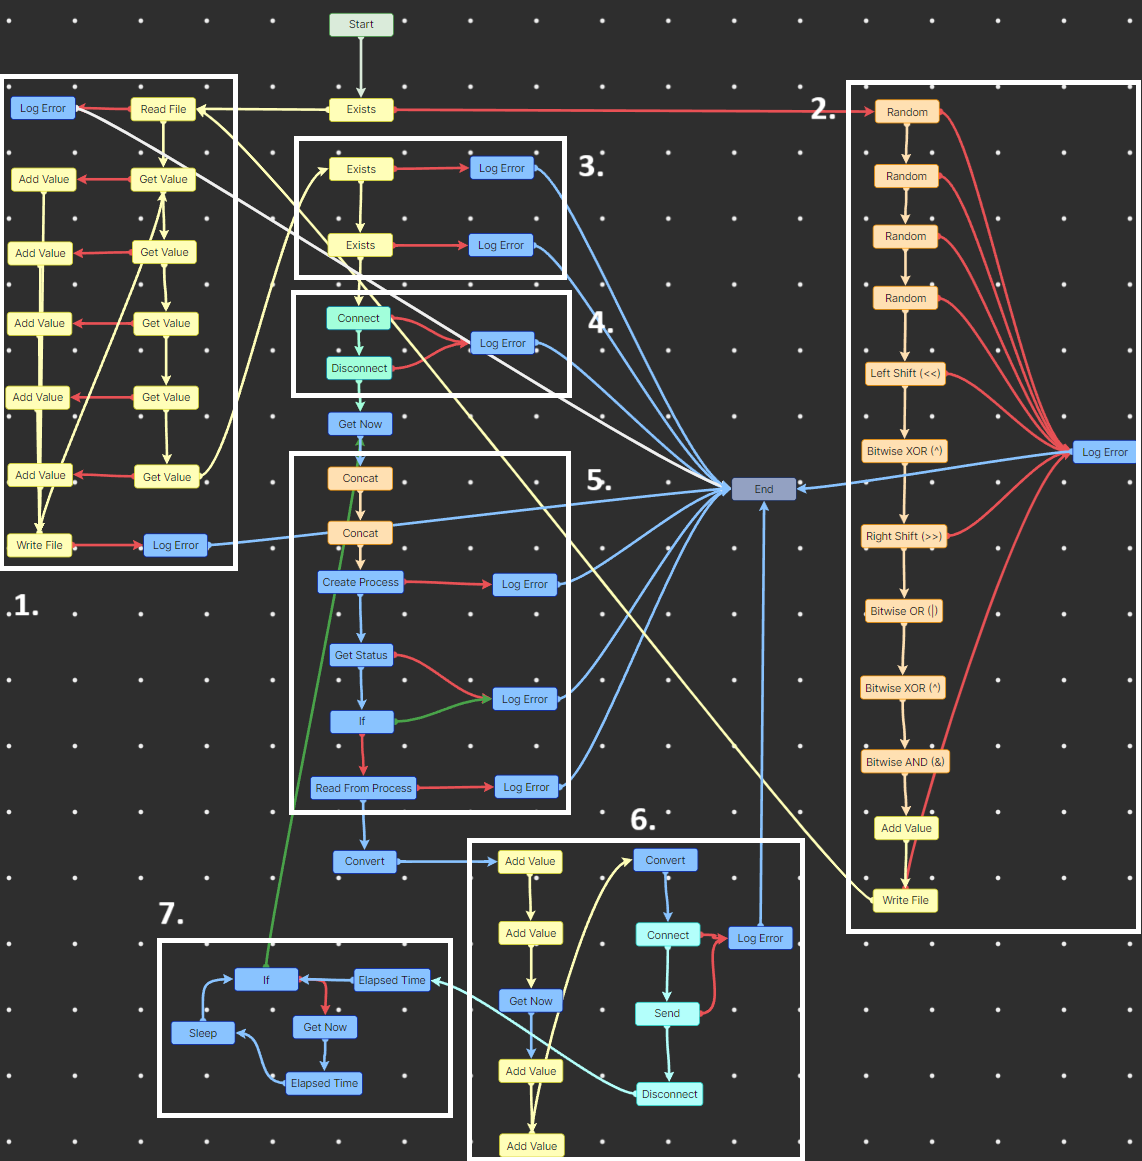
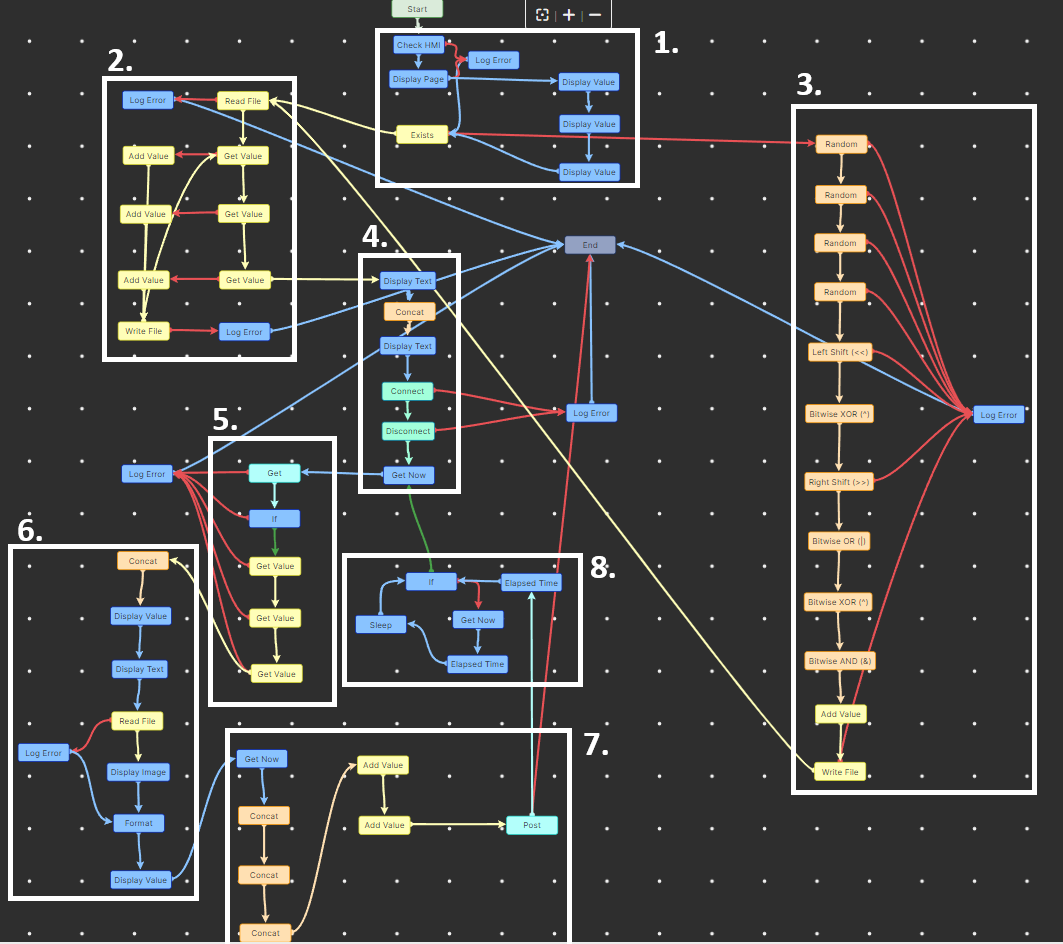
Update README of camara-niop with new GUI changes.

Changed region(s): [[0.0, 0.0, 1.0, 1.0], [0.6209, 0.2765, 0.683, 0.3072]]

diff --git a/camara-niop/README.md b/camara-niop/README.md
@@ -13,7 +13,7 @@ O projeto aqui feito em NIOP serve principalmente para receber essas informaçõ
 
 ## Instalação
 
-Devido ao facto de o projeto ter sido desenvolvido utilizando a plataforma NIOP, é somente necessário fazer o download do projeto e abrir o mesmo na plataforma NIOP. Para tal, é necessário ter o NIOP studio instalado no seu sistema e ter um conhecimento básico de como utilizar a plataforma NIOP.
+Devido ao facto de o projeto ter sido desenvolvido utilizando a plataforma NIOP, é somente necessário fazer o download do projeto e abrir o mesmo na plataforma NIOP. Para tal, é necessário ter o NIOP studio instalado no seu sistema e ter um conhecimento básico de como utilizar a plataforma NIOP. Tanto como o NIOP studio, é necessário ter o NIOP HMI instalado no seu sistema. O NIOP HMI é a plataforma que permite executar as GUI criadas na plataforma NIOP.
 
 Como a plataforma NIOP funciona de forma cliente-servidor para executar o projeto, é necessário ter o servidor NIOP a correr para poder executar o projeto. Para tal, é necessário iniciar o servidor NIOP (niop Engine) e depois abrir o projeto na plataforma NIOP. Assim, ao executar o seguinte comando no terminal, o servidor NIOP irá iniciar:
 ```bash
@@ -26,26 +26,45 @@ Após o servidor NIOP estar a correr, é possível abrir o projeto na plataforma
 Como o projeto foi concebido para ser "standalone", somente é necessário configurar algumas variáveis num ficheiro de configuração. Para tal, é necessário abrir o ficheiro `info.json` e configurar as variáveis de acordo com o seu sistema. As variáveis que devem ser configuradas são as seguintes:
 ```json
 {
-    "comando": "main.exe",
-    "identificador": 1882545984,
-    "modelo": "yolov5su.pt",
-    "server_ip": "localhost:8765",
+    "identificador": 5,
+    "server_ip": "https://backend.dnigamer.xyz",
     "tempo_captura": 10
 }
 ```
-- `comando`: O comando que irá ser executado para capturar a imagem. O valor padrão é `main.exe`, que é o executável do projeto camara-py. Se o executável estiver em outro local, deve especificar o caminho completo para o executável.
-- `identificador`: O identificador da câmera. O valor padrão é um número gerado aleatoriamente. Este número é utilizado para identificar a câmera na aplicação. Se o número não for único, o projeto terá problemas na backend que processa as contabilizações de passageiros.
-- `modelo`: O modelo que irá ser utilizado para a deteção de pessoas. O valor padrão é `yolov5su.pt`, que é o modelo pré-treinado. Se quiser utilizar outro modelo, deve especificar o caminho para o arquivo de pesos correspondente. Para além de especificar o modelo, deve também ter o modelo na mesma pasta que o executável do projeto camara-py. Para tal, é necessário fazer o download do modelo YOLOv5 em [https://github.com/ultralytics/yolov5/releases](https://github.com/ultralytics/yolov5/releases).
-- `server_ip`: O endereço IP do servidor que irá receber as informações. O valor padrão é `localhost:8765`, que é o endereço IP da backend que recebe as informações. Se o servidor estiver em outro local, deve especificar o endereço IP correto.
+As variáveis que devem ser configuradas são as seguintes:
+- `identificador`: O identificador da câmera. O valor padrão é um número gerado aleatoriamente. Este número é utilizado para identificar a câmera na aplicação. Se o número não for único em relação a uma outra câmara no sistema, o projeto terá problemas na backend que processa as contabilizações de passageiros.
+- `server_ip`: O endereço IP do servidor que irá receber as informações. Este endereço IP deve ser o endereço do servidor de backend que irá receber as informações enviadas pela aplicação, como dados de lotação de paragens, entre outros. O valor padrão é `https://backend.dnigamer.xyz`, e deve ser alterado para o endereço do seu servidor. 
 - `tempo_captura`: O período de tempo em segundos que a câmera irá capturar a imagem. Este número significa quanto em quanto tempo a câmera irá capturar uma nova imagem. O valor padrão é 10 segundos, mas pode ser alterado para o valor que quiser. O valor mínimo é 1 segundo.
+
+**NOTA:** O endereço IP (`server_ip`) deve ser o endereço do servidor que está a correr o backend `server-py`, um servidor RESTful que recebe as informações enviadas pela aplicação.
+
+### GUI integrado do camara-niop
+Como nova versão do projeto, foi adicionado uma GUI integrada no projeto camara-niop. Esta GUI permite ao utilizador ver o estado da captura, a imagem capturada e o número de pessoas detetadas na imagem. A GUI é atualizada em tempo real e permite ao utilizador ver o estado da captura e o número de pessoas detetadas na imagem.
+
+![camara-niop](assets/gui-camara.png)
+
+#### Como analizar a GUI
+A GUI é dividida em várias secções, a da imagem capturada, a das informações da captura e estado da captura. 
+
+A secção da imagem capturada mostra a imagem capturada pela câmera, a secção das informações da captura mostra o número de pessoas detetadas na imagem, tal como o ID da câmera e a data e hora da última captura. 
+
+A secção do estado da captura mostra o tempo que demorou a capturar a imagem e o intervalo de tempo entre capturas.
 
 ## Explicação do projeto
 
-Devido ao facto que o projeto é "low-code/no-code", não é possível explicar o projeto a partir de linhas de código. Assim, o projeto é dividido em várias partes que são explicadas de seguida:
+Devido ao facto que o projeto é "low-code/no-code", não é possível explicar o projeto a partir de linhas de código.
+
+Assim, o projeto é dividido em várias partes que são explicadas de seguida:
 ![camara-niop](assets/projeto.png)
 
 ### Legenda
-#### 1. Obtenção de configurações
+#### 1. Verificações iniciais
+
+Nesta secção do programa, o algoritmo irá verificar se existe tanto o ficheiro `info.json` como o HMI para poder mostrar a GUI do programa. Se não existir o ficheiro `info.json`, o algoritmo irá automaticamente criar o ficheiro com os valores padrão. 
+
+Se não existir o HMI, o algoritmo irá continuar a execução do programa sem mostrar a GUI, mas irá continuar a funcionar em background.
+
+#### 2. Criação de variáveis e do ficheiro info.json
 
 Neste passo, o projeto irá obter as configurações do ficheiro `info.json` e irá guardar as variáveis em variáveis que serão utilizadas no projeto. 
 
@@ -53,41 +72,50 @@ Se o ficheiro `info.json` não existir ou não estiver configurado corretamente,
 
 Como forma de prevenir erros, a aplicação irá automaticamente introduzir alguns valores padrão caso o ficheiro `info.json` esteja vazio.
 
-#### 2. Geração de identificador da câmera único
+#### 3. Geração de identificador da câmera único
 
-Esta secção do projeto realiza algumas operações bitwise para gerar um identificador único para a câmera. O identificador é gerado a partir de 4 números aleatórios, que em seguida sofrem operações bitwise para gerar um número único. Este número é utilizado para identificar a câmera na base de dados como sendo única.
+Esta secção do projeto realiza algumas operações bitwise para gerar um identificador único para a câmera. O identificador é gerado a partir de 4 números aleatórios, que em seguida sofrem operações bitwise para gerar um número único.
 
-#### 3. Verificação de se o modelo e o executável existem
-
-Este passo do projeto verifica se o modelo e o executável existem. Se não existirem, o projeto irá falhar e não irá funcionar. Assim, é necessário ter o modelo e o executável na mesma pasta que o projeto para que o projeto funcione.
+Este número é utilizado para identificar a câmera na base de dados como sendo única.
 
 #### 4. Verificação de se existe uma câmera disponível
 
-Esta secção do projeto verifica se existe uma câmera disponível ao conectar-se a uma qualquer primeira câmera disponível. Se não existir nenhuma câmera disponível, o projeto irá falhar e não irá funcionar.
+Esta secção do projeto verifica se existe uma câmera disponível ao conectar-se a uma qualquer primeira câmera disponível.
 
-#### 5. Execução do comando para capturar e processar a imagem (camara-py)
+Esta parte do projeto serve primariamente para garantir que o resto do projeto funciona corretamente, uma vez que o projeto camara-py irá utilizar a câmera para capturar a imagem e processar a mesma.
 
-Dependendo do comando que foi configurado no ficheiro `info.json`, o projeto irá executar o comando para capturar a imagem. Para além desse comando configurado, o projeto irá também concatenar o modelo configurado no mesmo ficheiro ficando algo como `main.exe -m yolov5su.pt`. Assim, o projeto irá executar o comando para capturar a imagem e processar a imagem utilizando o modelo configurado. 
+Se não existir nenhuma câmera disponível, o projeto irá falhar e não irá funcionar. Assim, é necessário ter uma câmera (webcam por USB por exemplo) disponível para que o projeto funcione corretamente.
 
-#### 6. Envio de informações para o servidor
+#### 5. Chamada GET ao camera-py
 
-Nesta secção do projeto, o projeto irá enviar as informações para uma backend configurada previamente no ficheiro `info.json`. O projeto irá enviar as informações utilizando WebSocket, e da seguinte forma:
+Nesta secção do projeto, o algoritmo irá fazer uma chamada GET ao projeto camara-py para capturar a imagem. O projeto camara-py é responsável por capturar a imagem e processar a mesma utilizando um modelo de machine learning para contar o número de pessoas na imagem.
+
+Aqui também é feita alguma verificação de erros, como por exemplo, se a chamada GET falhar. Se a chamada GET falhar, o projeto irá falhar e não irá funcionar. Assim, é necessário garantir que o projeto camara-py está a correr e que a chamada GET funciona corretamente.
+
+#### 6. Processamento dos dados recebidos
+
+Nesta secção do projeto, o projeto irá enviar as informações para uma backend configurada previamente no ficheiro `info.json`. O projeto irá enviar as informações utilizando o endpoint `/api/camaras/{camera_id}/lotacao` e uma chamada POST. 
+
+O corpo da mensagem deverá ser um JSON com a seguinte estrutura:
 ```json
 {
-    "camera_id": 1882545984,
-    "destination": "camera_data",
     "people_count": 9,
     "timestamp": "1744818115"
 }
 ```
-- `camera_id`: O identificador da câmera. Este número deverá já ter sido gerado anteriormente e deverá ser o mesmo que foi gerado na secção 2 ou que foi configurado manualmente no ficheiro `info.json`.
-- `destination`: O destino da mensagem. Este número é o nome do endpoint que irá receber a mensagem. O valor padrão é `camera_data`, que é o endpoint que irá receber as informações. 
+
+Os campos que devem ser preenchidos são os seguintes:
 - `people_count`: O número de pessoas detetadas na imagem. Este número é o número de pessoas que foram detetadas na imagem capturada.
 - `timestamp`: O timestamp da imagem. Feito utilizando o epoch Unix, este número é o timestamp de quando o sistema capturou a imagem ou que executou o camera-py.
 
-#### 7. Loop para capturar a imagem de tempos em tempos
+#### 7. Envio dos dados para o servidor
+Nesta secção do projeto, o algoritmo irá enviar os dados para o servidor utilizando uma chamada POST. O projeto irá enviar as informações utilizando o endpoint `/api/camaras/{camera_id}/lotacao` e uma chamada POST.
 
-Nesta última secção do projeto, a aplicação irá ficar à espera durante o tempo configurado no ficheiro `info.json` e irá capturar a imagem periodicamente. O projeto irá continuar a correr até que o utilizador o pare manualmente ou que o servidor NIOP seja parado. 
+#### 8. Loop para capturar a imagem de tempos em tempos
+
+Nesta última secção do projeto, a aplicação irá ficar à espera durante o tempo configurado no ficheiro `info.json` e irá capturar a imagem periodicamente. O projeto irá continuar a correr até que o utilizador o pare manualmente ou que o servidor NIOP seja parado.
+
+## Avisos finais
 
 **NOTA:** Como só temos acesso à versão trial do NIOP, a aplicação só irá executar durante 180 minutos. Após esse tempo, a aplicação irá parar automaticamente e não irá funcionar. Caso isso aconteça, é necessário dar o redeploy do workflow para que a aplicação volte a funcionar.
 
